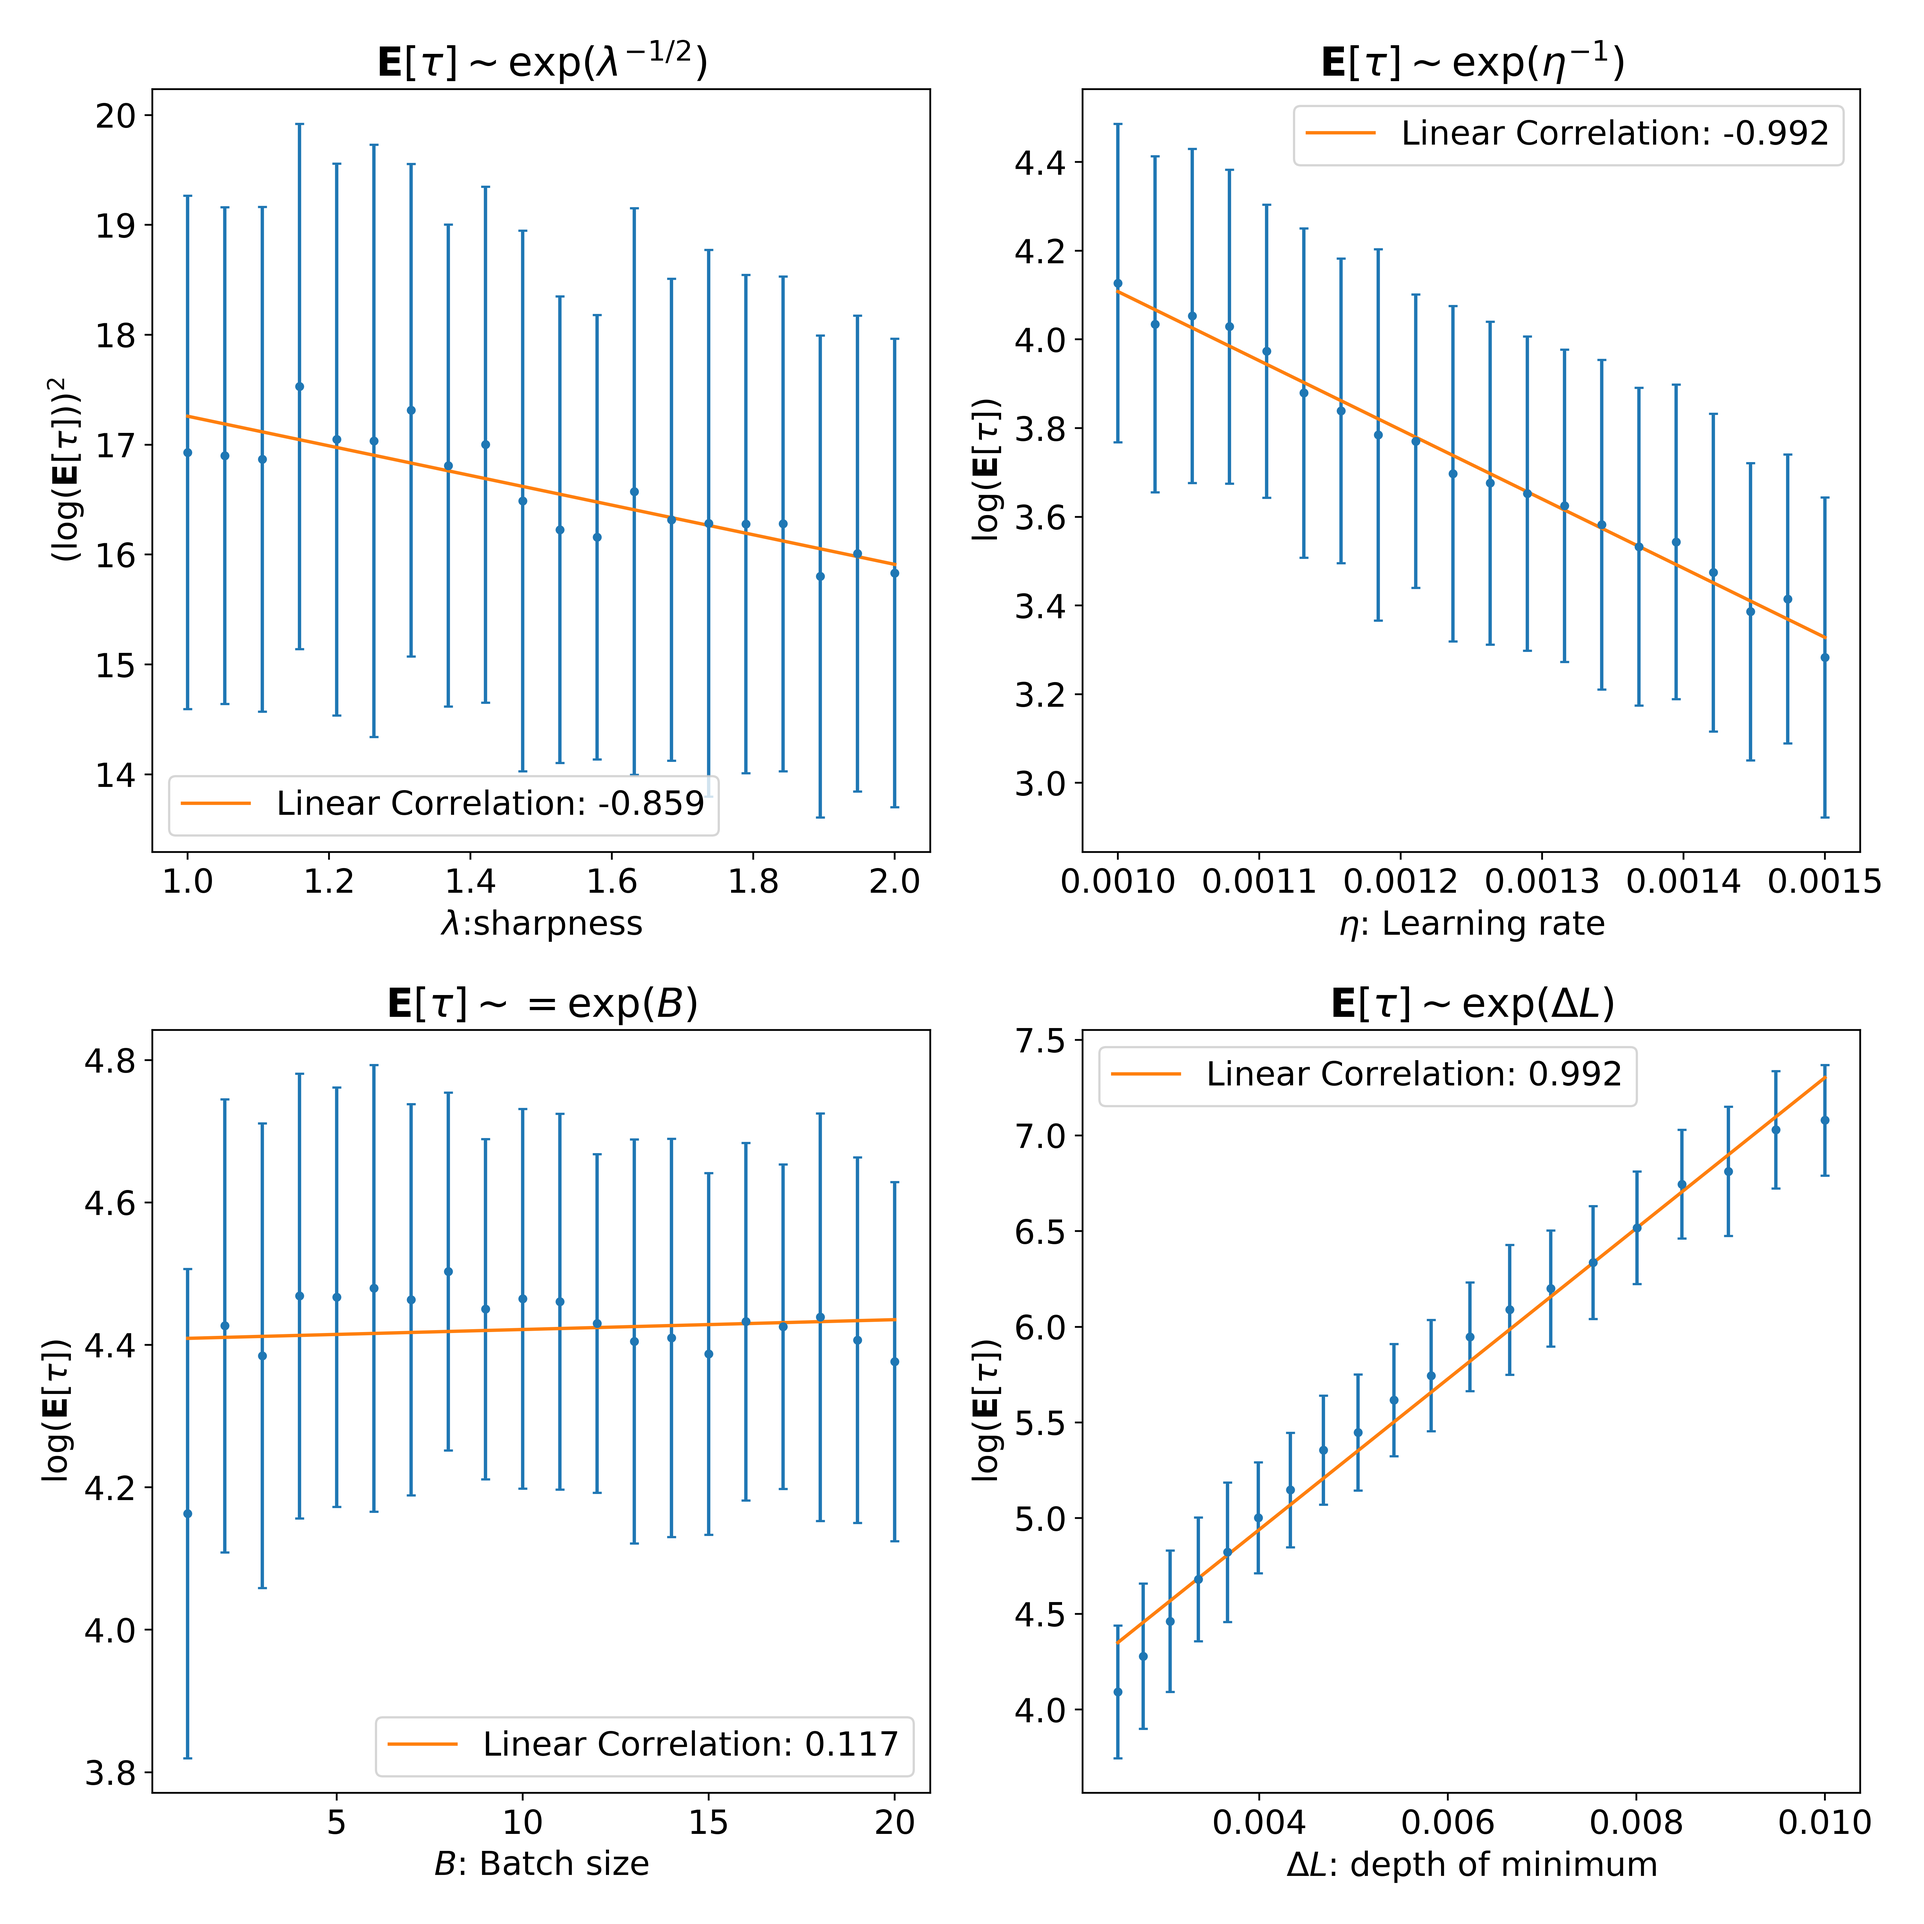
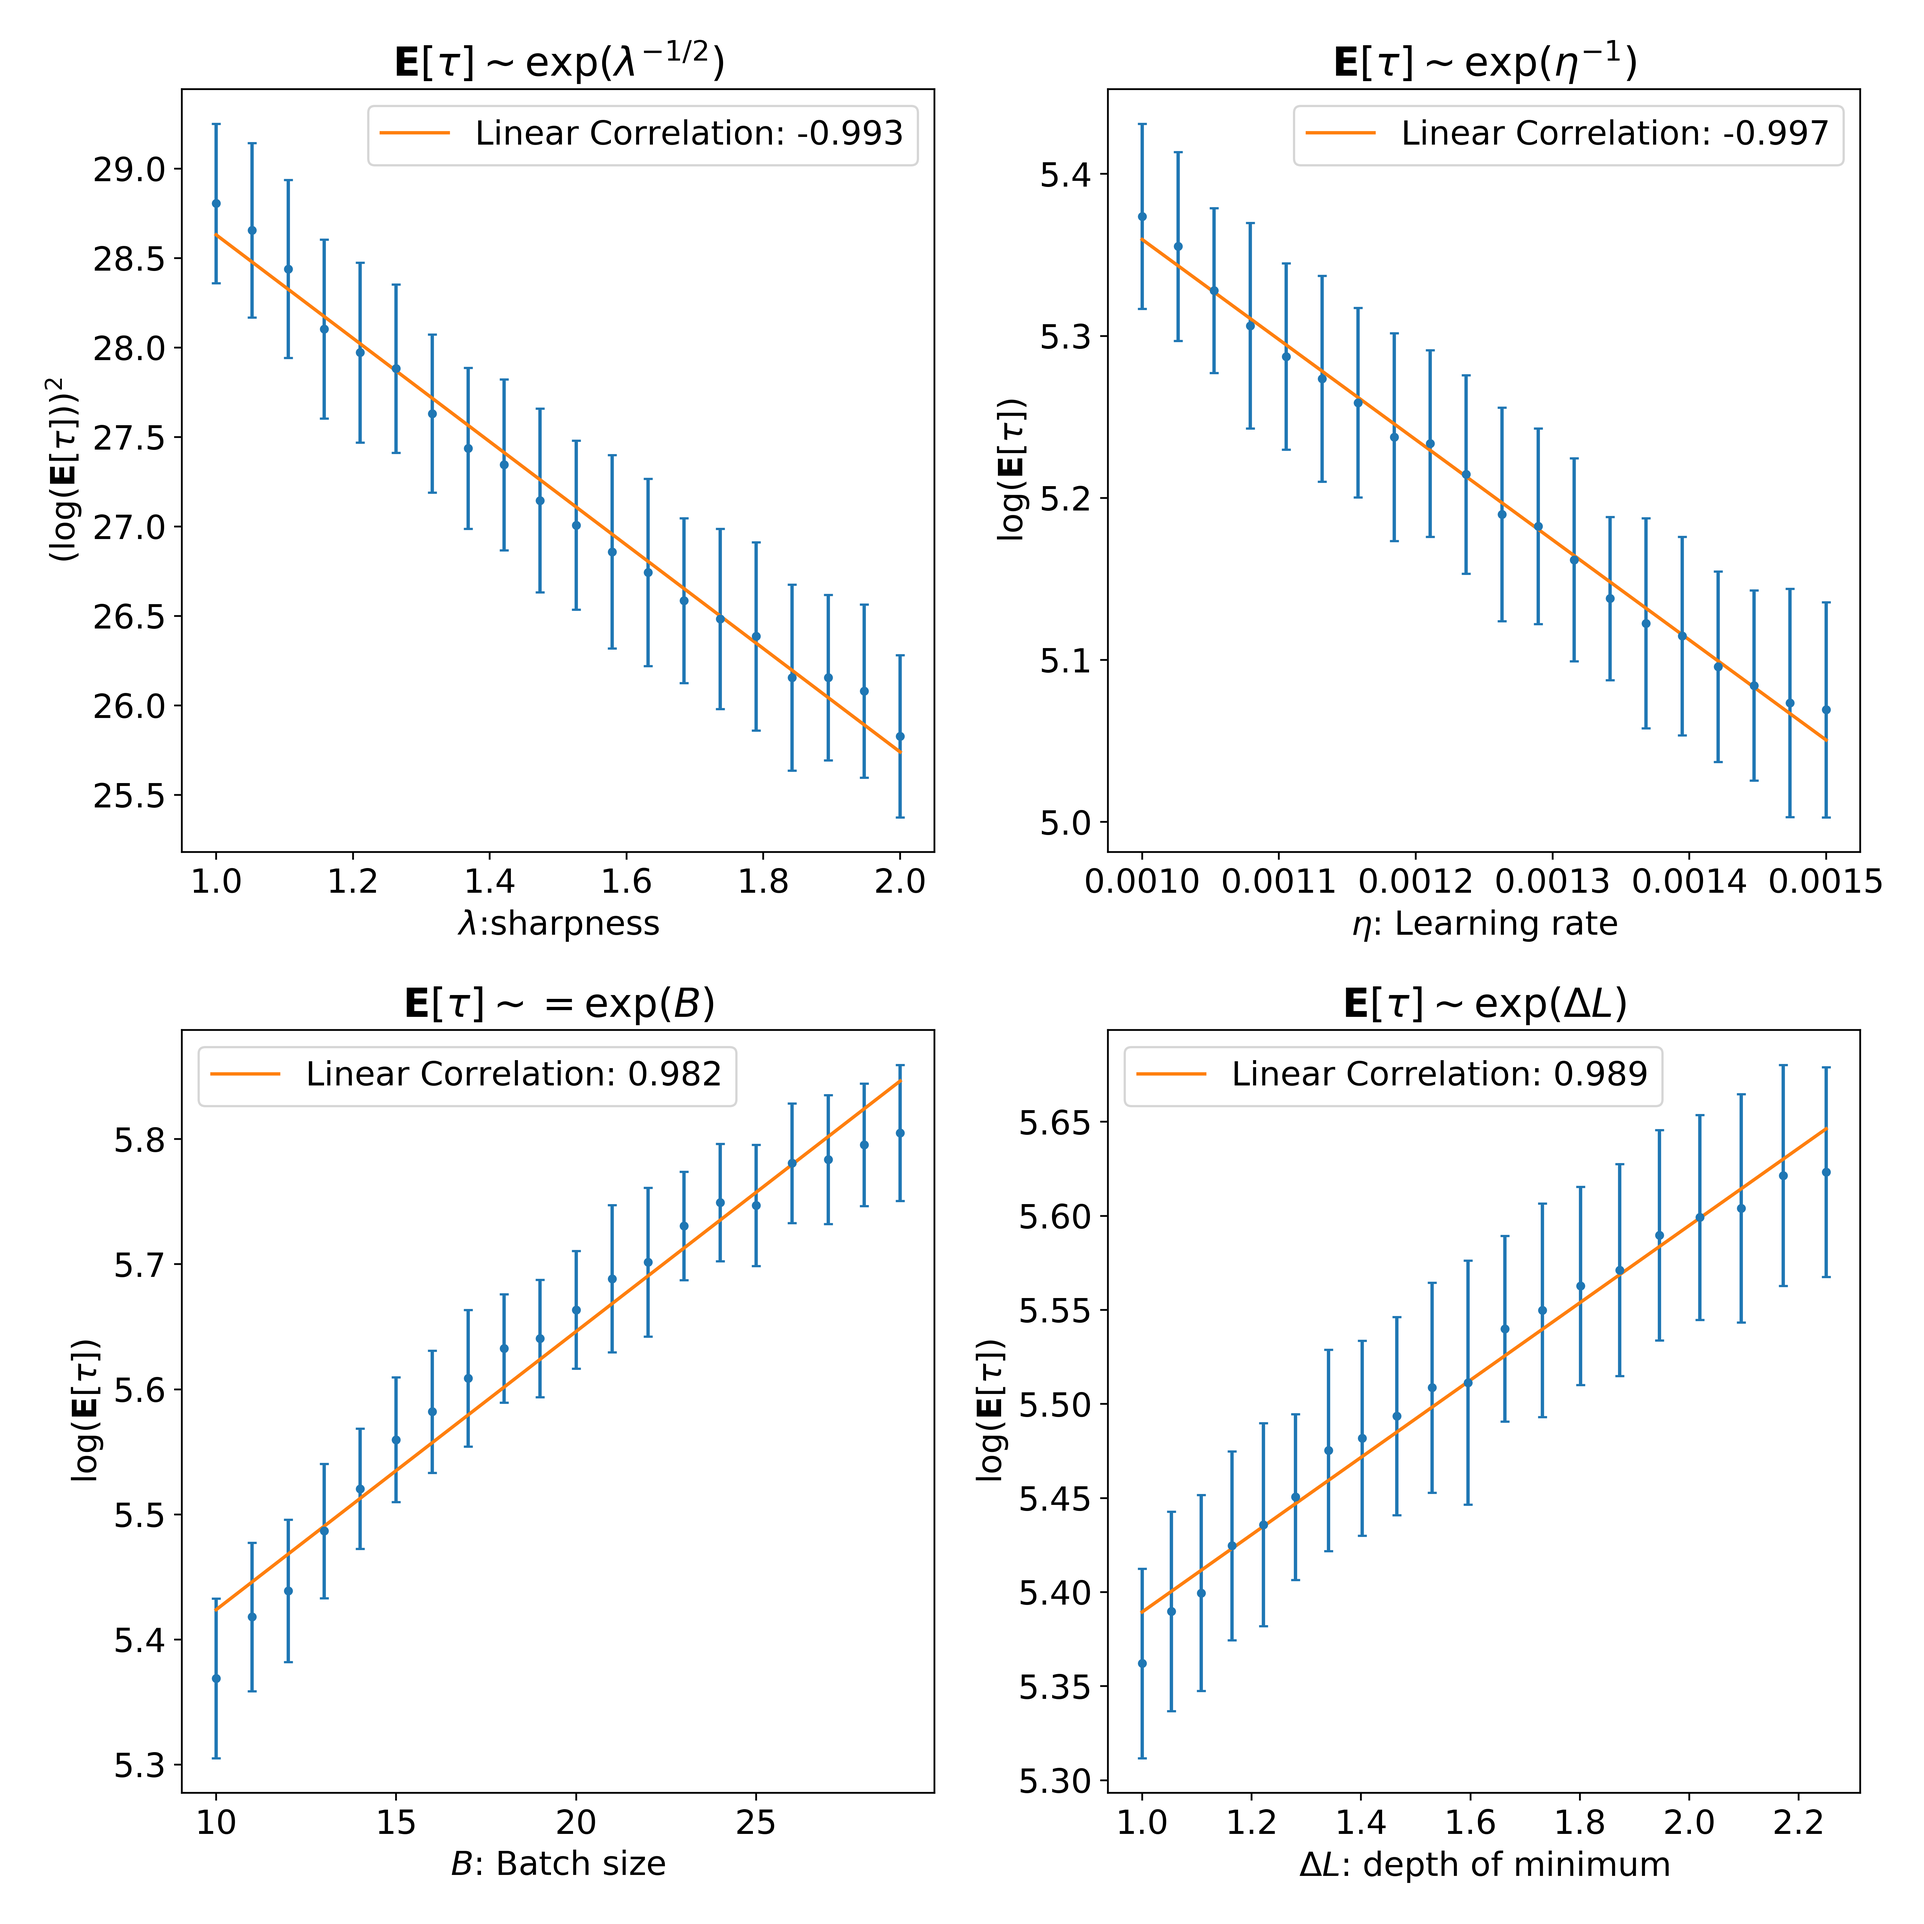
update

diff --git a/exit_time.py b/exit_time.py
@@ -21,7 +21,7 @@ def get_exit_time(config, lr, sharpness, batch_size, r):
 
     exit_time = 0
     while(distance(init_model, model) < r):
-        model.zero_grad()
+        # model.zero_grad()
         if config["optim"] == "SGD":
             data_size = dataset.train.x.size()[0]
             shuffled_data = dataset.train.x[torch.randperm(data_size)]
